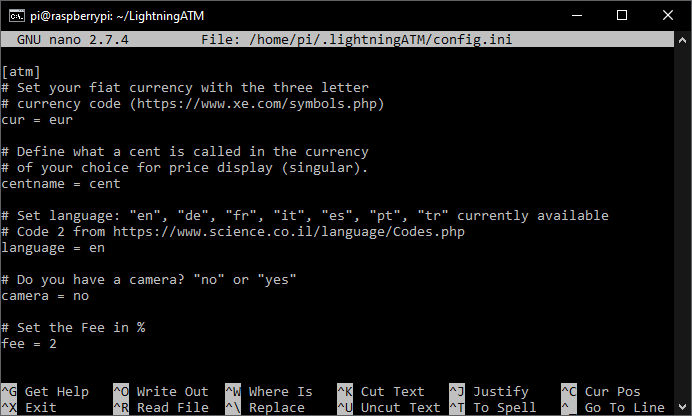
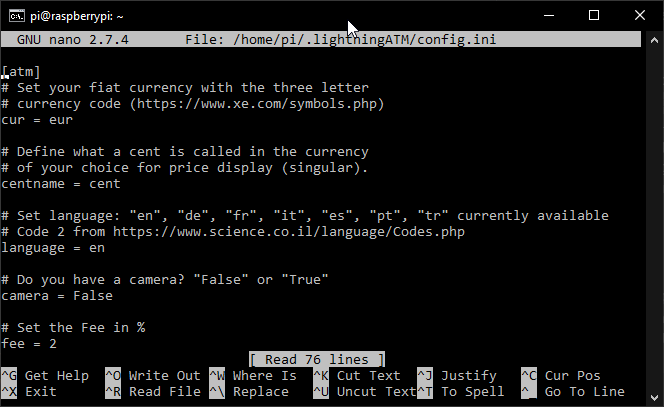
Update für languages

diff --git a/tests/displayalign.py b/tests/displayalign.py
@@ -48,42 +48,67 @@ else:
 
 def main():
 
-    display.update_startup_screen()
-    sleep(3)
+    print("1. display.error_screen(message=ERROR)")
+    display.error_screen(message="ERROR")
+    sleep(2)
+    print("2. display.update_qr_request()")
     display.update_qr_request()
     sleep(3)
+    print("3. display.update_qr_failed()")
     display.update_qr_failed()
-    sleep(3)
+    sleep(2)
+    print("4. display.update_payout_screen()")
     display.update_payout_screen()
-    sleep(3)
+    sleep(2)
+    print("5. display.update_payment_failed()")
     display.update_payment_failed()
-    sleep(3)
+    sleep(2)
+    print("6. display.update_thankyou_screen()")
     display.update_thankyou_screen()
-    sleep(3)
+    sleep(2)
+    print("7. display.update_nocoin_screen()")
     display.update_nocoin_screen()
-    sleep(3)
+    sleep(2)
+    print("8. display.update_lnurl_generation()")
     display.update_lnurl_generation()
-    sleep(3)
+    sleep(2)
+    print("9. display.update_shutdown_screen()")
     display.update_shutdown_screen()
-    sleep(3)
+    sleep(2)
+    print("10. display.update_wallet_scan()")
     display.update_wallet_scan()
-    sleep(3)
+    sleep(2)
+    print("11. display.update_lntxbot_balance(balance)")
     display.update_lntxbot_balance(123)
-    sleep(3)
+    sleep(2)
+    print("12. display.update_btcpay_lnd()")
     display.update_btcpay_lnd()
-    sleep(3)
-    
+    sleep(2)
+    print("13. display.draw_lnurl_qr(qr_img)")
     qrImage = Image.new('1', (122, 122), 255)
     display.draw_lnurl_qr(qrImage)
-    sleep(3)
+    sleep(2)
+    print("14. display.update_amount_screen()")
     display.update_amount_screen()
-    sleep(3)
+    sleep(2)
+    print("15. display.update_lnurl_cancel_notice()")
     display.update_lnurl_cancel_notice()
-    sleep(3)
+    sleep(2)
+    print("16. display.update_button_fault()")
+    display.update_button_fault()
+    sleep(2)
+    print("17. display.update_wallet_fault()")
+    display.update_wallet_fault()
+    sleep(2)
+    print("18. display.update_startup_screen()")
+    display.update_startup_screen()
+    sleep(2)
+    print("19. display.update_blank_screen()")
     display.update_blank_screen()
-    sleep(3)
+    sleep(2)
+    print("12. init_screen(0)")
     display.init_screen(0)
-    sleep(3)
+    sleep(2)
     
     if startService == 1:
         print("LightningATM.service will be started now.")

diff --git a/docs/guide/we_need_your_help.md b/docs/guide/we_need_your_help.md
@@ -25,13 +25,13 @@ Then we add the following text between `centname = cent` and `# Set the Fee in %
     # Code 2 from https://www.science.co.il/language/Codes.php
     language = en
 
-    # Do you have a camera? "no" or "yes"
-    camera = no
+    # Do you have a camera? "False" or "True"
+    camera = False
     
 <img src="../pictures/we_need_your_help_config.ini.png" width="600">
 
 - When you finshed with changings in the config.ini, save and exit the editor: `CTRL+x -> y -> ENTER`
-- `Help:` If you want to copy and paste the text, take the text to the clipboard and then place the cursor where you want to paste the text and right-click to paste. But important is just `language = en` and `camera = no`.
+- `Help:` If you want to copy and paste the text, take the text to the clipboard and then place the cursor where you want to paste the text and right-click to paste. But important is just `language = en` and `camera = False`.
 
 ### 2. Update to the new version
 
@@ -60,7 +60,6 @@ Make the backup the major version again and then delete the backup.
     $ sudo rm -r LightningATM_Backup
 
 - Everthing should now be as befor. Even the wallat data.
-- Check if you have set a temporary button and reset it with `payoutdelay = 12` in the `config.ini`
 
 ### 5. Final step
 
